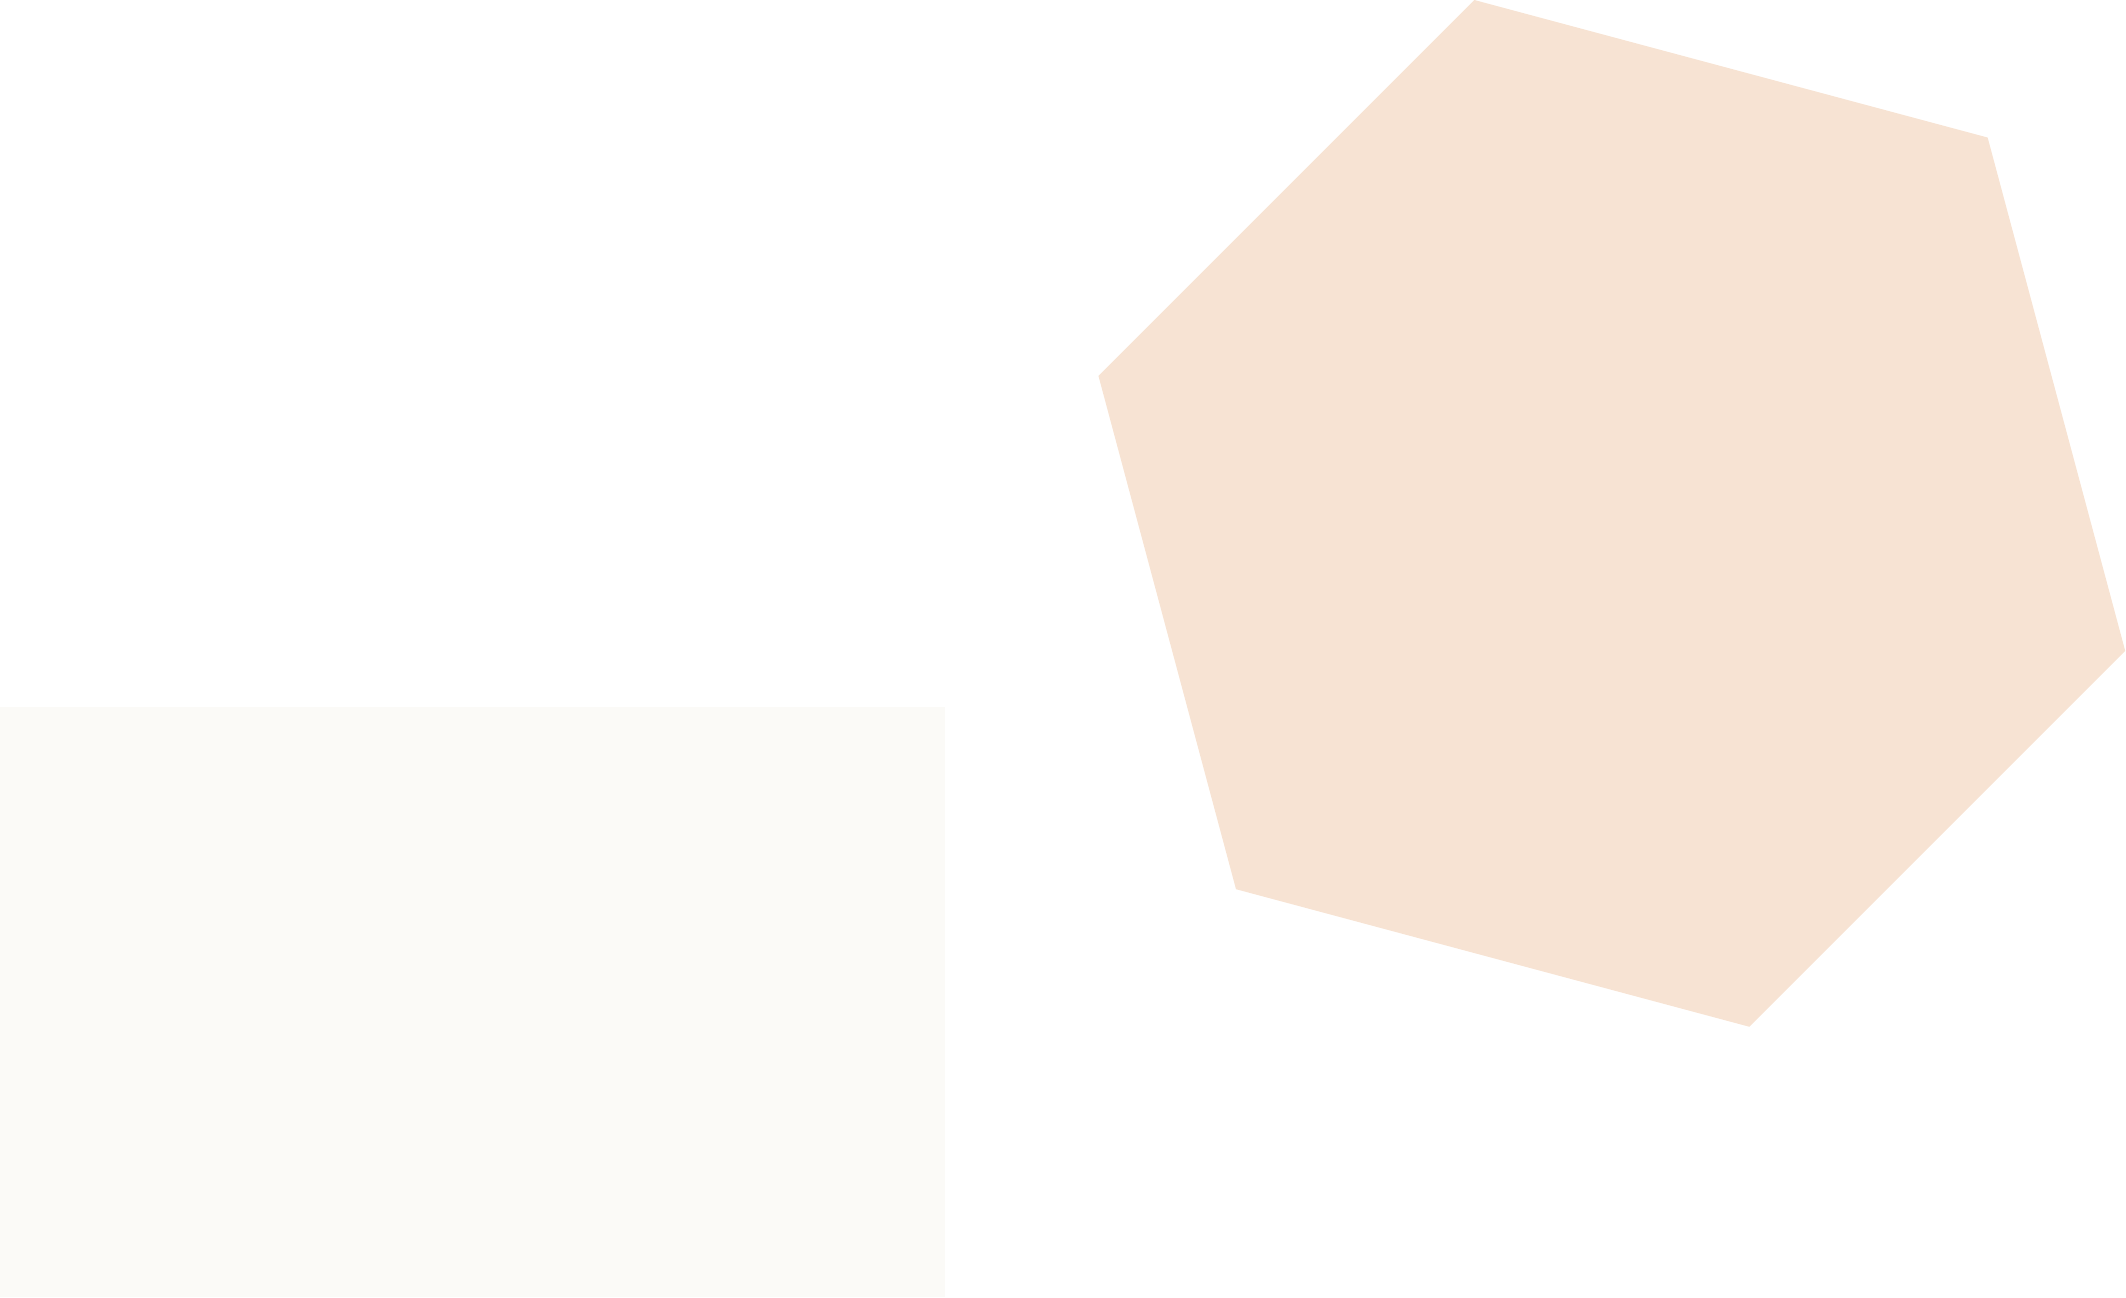
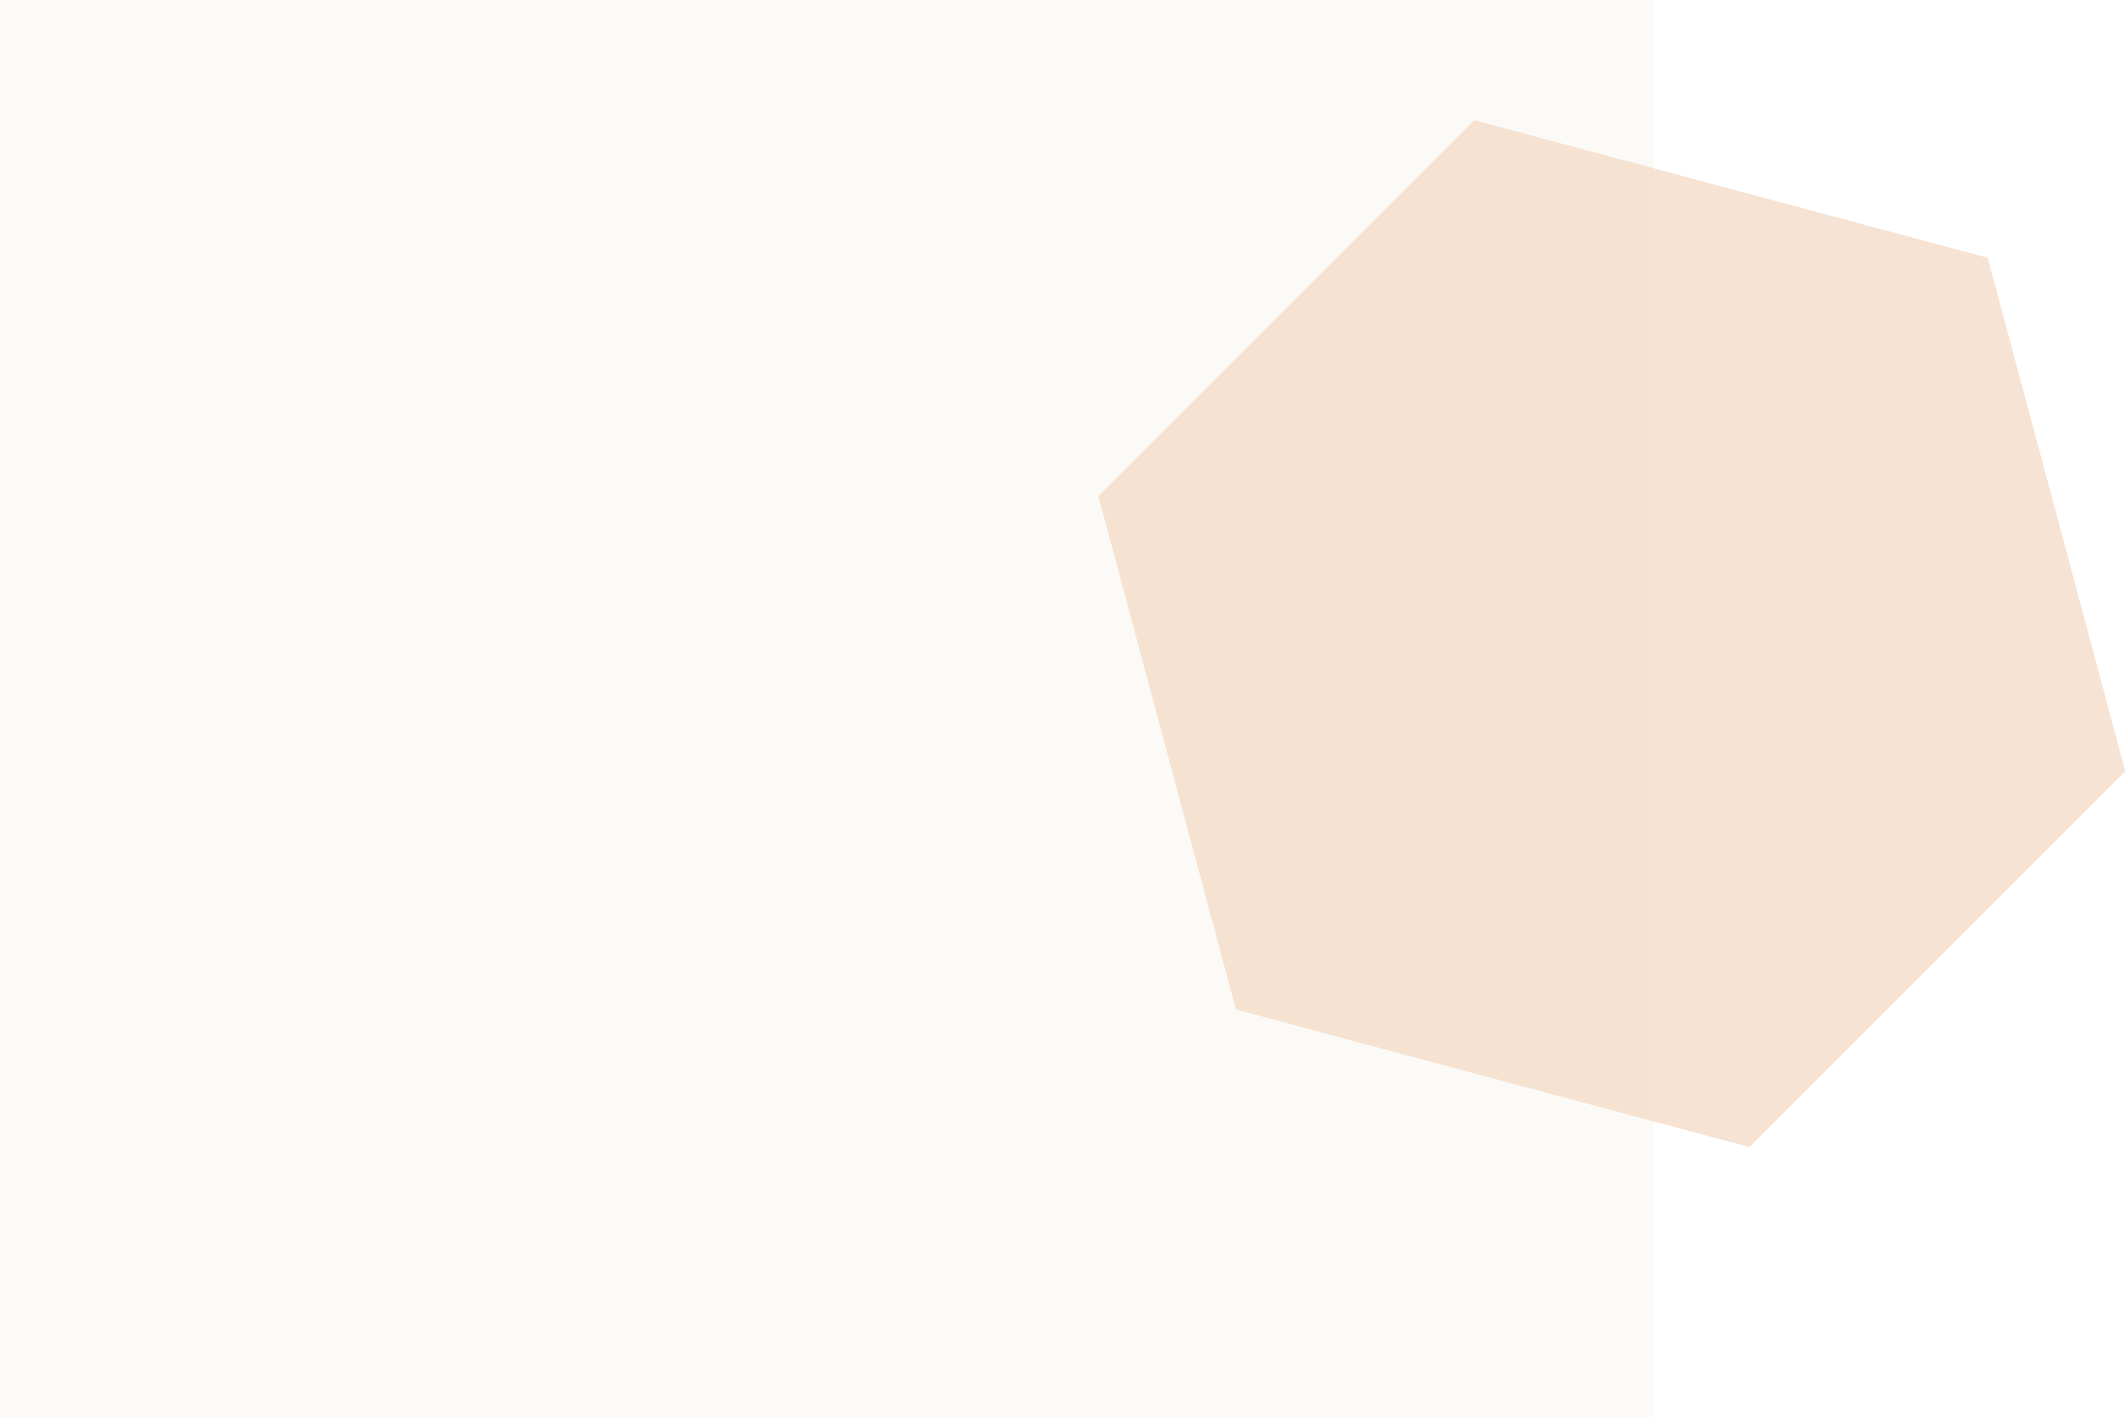
Expand canvas to show hexagon properly

Changed region(s): [[0.4967, 0.0, 1.0, 0.678], [0.5588, 0.5547, 0.8382, 0.8012], [0.8382, 0.678, 0.9003, 0.7704]]

diff --git a/01-demo/gen_bg.tex b/01-demo/gen_bg.tex
@@ -7,7 +7,7 @@
 \begin{tikzpicture}
 
 % Canvas
-\fill[ra-bg] (0,0) rectangle (8,5);
+\fill[ra-bg] (0,0) rectangle (14,12);
 
 % One large regular hexagon, slightly rotated
 \fill[ra-fill, opacity=0.8, rotate around={15:(9.3,7.8)}]
